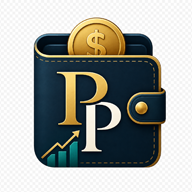
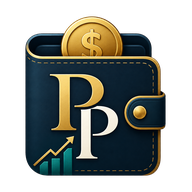
duże zmiany

Changed region(s): [[0.125, 0.0625, 0.875, 0.9375]]

diff --git a/src/app.js b/src/app.js
@@ -1,6 +1,6 @@
 const DB_NAME = 'bilans-pwa-etap1';
 const DB_VERSION = 3;
-const APP_VERSION = 21;
+const APP_VERSION = 22;
 const STORE = 'entries';
 const TAG_RULE_STORE = 'tagRules';
 const DEVICE_ID_KEY = 'bilans-pwa-device-id';
@@ -121,6 +121,7 @@ const WEEKDAYS = [
 
 const NAME_DAY_API_URLS = [
   'https://nameday.abalin.net/api/V1/today?country=pl',
+  'https://nameday.abalin.net/api/V1/today?country=pl&timezone=Europe/Warsaw',
   'https://nameday.abalin.net/api/V2/today/Europe%2FWarsaw'
 ];
 
@@ -233,9 +234,11 @@ const el = {
   todayLabel: document.querySelector('#todayLabel'),
   messageBox: document.querySelector('#messageBox'),
   installButton: document.querySelector('#installButton'),
+  installVoiceButton: document.querySelector('#installVoiceButton'),
   voiceShortcutButton: document.querySelector('#voiceShortcutButton'),
   voiceQuickPanel: document.querySelector('#voiceQuickPanel'),
   voiceCloseButton: document.querySelector('#voiceCloseButton'),
+  voiceInstallNowButton: document.querySelector('#voiceInstallNowButton'),
   voiceRecordButton: document.querySelector('#voiceRecordButton'),
   voiceStopButton: document.querySelector('#voiceStopButton'),
   voiceParseButton: document.querySelector('#voiceParseButton'),
@@ -328,6 +331,7 @@ const el = {
   filterPayment: document.querySelector('#filterPayment'),
   clearFiltersButton: document.querySelector('#clearFiltersButton'),
   clearAllButton: document.querySelector('#clearAllButton'),
+  factoryResetButton: document.querySelector('#factoryResetButton'),
   entriesTableBody: document.querySelector('#entriesTableBody'),
   mobileEntries: document.querySelector('#mobileEntries'),
   themeSelect: document.querySelector('#themeSelect'),
@@ -2763,19 +2767,53 @@ function registerServiceWorker() {
     });
 }
 
+function showInstallUnavailableMessage() {
+  showMessage('Instalacja PWA jest dostępna tylko z HTTPS/GitHub Pages i tylko wtedy, gdy przeglądarka pozwala dodać aplikację. Jeśli nie pojawi się okno instalacji, użyj menu Chrome: Dodaj do ekranu głównego.', 'error');
+}
+
+async function runInstallPrompt() {
+  if (!deferredInstallPrompt) {
+    showInstallUnavailableMessage();
+    return;
+  }
+  deferredInstallPrompt.prompt();
+  await deferredInstallPrompt.userChoice;
+  deferredInstallPrompt = null;
+}
+
+function openVoiceInstallPage() {
+  const url = new URL(window.location.href);
+  url.searchParams.set('action', 'voice');
+  url.searchParams.set('install', 'voice');
+  url.searchParams.set('v', `${APP_VERSION}-${Date.now()}`);
+  window.location.href = url.toString();
+}
+
 function setupInstallPrompt() {
   window.addEventListener('beforeinstallprompt', event => {
     event.preventDefault();
     deferredInstallPrompt = event;
-    el.installButton.classList.remove('hidden');
+    el.installButton?.classList.remove('hidden');
+    el.installVoiceButton?.classList.remove('hidden');
+    el.voiceInstallNowButton?.classList.remove('hidden');
   });
 
-  el.installButton.addEventListener('click', async () => {
-    if (!deferredInstallPrompt) return;
-    deferredInstallPrompt.prompt();
-    await deferredInstallPrompt.userChoice;
-    deferredInstallPrompt = null;
-    el.installButton.classList.add('hidden');
+  el.installButton?.addEventListener('click', event => {
+    event.preventDefault();
+    event.stopPropagation();
+    runInstallPrompt().catch(error => showMessage(error.message || 'Nie udało się uruchomić instalacji.', 'error'));
+  });
+
+  el.installVoiceButton?.addEventListener('click', event => {
+    event.preventDefault();
+    event.stopPropagation();
+    openVoiceInstallPage();
+  });
+
+  el.voiceInstallNowButton?.addEventListener('click', event => {
+    event.preventDefault();
+    event.stopPropagation();
+    runInstallPrompt().catch(error => showMessage(error.message || 'Nie udało się uruchomić instalacji mikrofonu.', 'error'));
   });
 }
 
@@ -3027,21 +3065,84 @@ function printCalendarPdf(mode) {
   showMessage('Otworzono widok PDF/drukowania. Wybierz „Zapisz jako PDF”.');
 }
 
+function deleteIndexedDatabase() {
+  return new Promise((resolve, reject) => {
+    if (!('indexedDB' in window)) {
+      resolve();
+      return;
+    }
+    try { db?.close?.(); } catch (_) {}
+    db = null;
+    const request = indexedDB.deleteDatabase(DB_NAME);
+    request.onsuccess = () => resolve();
+    request.onerror = event => reject(event.target.error || new Error('Nie udało się usunąć bazy IndexedDB.'));
+    request.onblocked = () => reject(new Error('Baza danych jest zablokowana przez inną kartę. Zamknij inne karty z programem i spróbuj ponownie.'));
+  });
+}
+
+function clearAppLocalStorage() {
+  const prefixes = ['bilans-pwa-', 'portfel-pro'];
+  for (let i = localStorage.length - 1; i >= 0; i -= 1) {
+    const key = localStorage.key(i);
+    if (!key) continue;
+    if (prefixes.some(prefix => key.startsWith(prefix))) localStorage.removeItem(key);
+  }
+  try { sessionStorage.clear(); } catch (_) {}
+}
+
+async function clearAppCachesAndWorkers() {
+  if ('caches' in window) {
+    const keys = await caches.keys();
+    await Promise.all(keys.filter(key => key.startsWith('bilans-pwa') || key.startsWith('portfel-pro')).map(key => caches.delete(key)));
+  }
+
+  if ('serviceWorker' in navigator && !isFileProtocol()) {
+    const registrations = await navigator.serviceWorker.getRegistrations();
+    await Promise.all(registrations.map(registration => registration.unregister()));
+  }
+}
+
+async function factoryResetApp() {
+  const first = window.confirm('Przywrócić ustawienia fabryczne programu? Znikną wpisy, ustawienia, tagi, połączenie Dropbox i lokalna baza tej przeglądarki.');
+  if (!first) return;
+
+  const code = window.prompt('Dla bezpieczeństwa wpisz RESET, żeby potwierdzić przywrócenie ustawień fabrycznych.');
+  if (code !== 'RESET') {
+    showMessage('Reset fabryczny anulowany. Nie wpisano RESET.', 'error');
+    return;
+  }
+
+  const shouldClearDropbox = getStorageMode() === 'dropbox' && hasDropboxConnection() && window.confirm('Wyczyścić także plik danych w Dropboxie? Jeśli wybierzesz NIE, reset dotyczy tylko tej przeglądarki.');
+
+  try {
+    if (shouldClearDropbox) {
+      const entriesToDelete = allEntries.length ? [...allEntries] : await getAllEntries();
+      if (entriesToDelete.length) rememberDeletedEntries(entriesToDelete);
+      await clearEntries();
+      await dropboxUploadPayload(makeExportPayload());
+    }
+  } catch (error) {
+    const continueReset = window.confirm(`Nie udało się wyczyścić Dropboxa: ${error.message}. Kontynuować reset lokalny?`);
+    if (!continueReset) return;
+  }
+
+  await deleteIndexedDatabase();
+  clearAppLocalStorage();
+  await clearAppCachesAndWorkers();
+
+  const reloadUrl = new URL(window.location.href);
+  reloadUrl.search = '';
+  reloadUrl.searchParams.set('v', `${APP_VERSION}-${Date.now()}`);
+  window.location.replace(reloadUrl.toString());
+}
+
 
 async function clearAppCacheAndReload() {
   const accepted = window.confirm('Wyczyścić cache tej aplikacji i uruchomić ponownie? Dane wpisów w IndexedDB nie zostaną usunięte.');
   if (!accepted) return;
 
   try {
-    if ('caches' in window) {
-      const keys = await caches.keys();
-      await Promise.all(keys.filter(key => key.startsWith('bilans-pwa') || key.startsWith('portfel-pro')).map(key => caches.delete(key)));
-    }
-
-    if ('serviceWorker' in navigator && !isFileProtocol()) {
-      const registration = await navigator.serviceWorker.getRegistration('./');
-      if (registration) await registration.unregister();
-    }
+    await clearAppCachesAndWorkers();
 
     showMessage('Cache aplikacji wyczyszczony. Uruchamiam najnowszą wersję.');
     const reloadUrl = new URL(window.location.href);
@@ -3233,7 +3334,13 @@ async function saveVoiceParsedEntries() {
 
 function setupVoiceMode() {
   if (!el.voiceQuickPanel) return;
-  if (isVoiceActionRequested()) openVoiceMode();
+  if (isVoiceActionRequested()) {
+    openVoiceMode();
+    const params = new URLSearchParams(window.location.search);
+    if (params.get('install') === 'voice') {
+      setVoiceStatus('Kliknij „Zainstaluj mikrofon”, żeby dodać osobną ikonę szybkiego dodawania.');
+    }
+  }
 }
 
 function setupTabs() {
@@ -3386,6 +3493,13 @@ function bindEvents() {
       event.preventDefault();
       event.stopPropagation();
       handleClearAll().catch(error => showMessage(error.message, 'error'));
+    });
+  }
+  if (el.factoryResetButton) {
+    el.factoryResetButton.addEventListener('click', event => {
+      event.preventDefault();
+      event.stopPropagation();
+      factoryResetApp().catch(error => showMessage(error.message || 'Nie udało się przywrócić ustawień fabrycznych.', 'error'));
     });
   }
   const handleImportChange = (event, options = {}) => {

diff --git a/index.html b/index.html
@@ -6,10 +6,15 @@
   <meta name="theme-color" content="#f6f3ea">
   <meta name="description" content="Portfel PRO — lokalny rejestr przychodów, wydatków, raportów i kalendarza.">
   <title>Portfel PRO</title>
-  <link rel="manifest" href="./manifest.webmanifest?v=21">
-  <link rel="icon" href="./icons/icon-192.png">
-  <link rel="apple-touch-icon" href="./icons/icon-192.png">
-  <link rel="stylesheet" href="./src/styles.css?v=21">
+  <script>
+    const __manifestFile = new URLSearchParams(location.search).get('action') === 'voice'
+      ? 'manifest-voice.webmanifest'
+      : 'manifest.webmanifest';
+    document.write(`<link id="appManifest" rel="manifest" href="./${__manifestFile}?v=22">`);
+  </script>
+  <link rel="icon" href="./icons/icon-192.png?v=22">
+  <link rel="apple-touch-icon" href="./icons/icon-192.png?v=22">
+  <link rel="stylesheet" href="./src/styles.css?v=22">
 </head>
 <body data-theme="classic">
   <script>
@@ -20,14 +25,15 @@
   <main class="app-shell">
     <header class="app-header">
       <div class="brand-block">
-        <div class="app-mark">P</div>
+        <img class="app-logo" src="./icons/logo-portfel-pro.png?v=22" alt="Portfel PRO">
         <div>
           <h1>Portfel PRO</h1>
           <p id="todayLabel">Lokalna aplikacja webowa</p>
         </div>
       </div>
       <div class="header-actions">
-        <button id="installButton" class="secondary hidden" type="button">Zainstaluj</button>
+        <button id="installButton" class="secondary" type="button">Zainstaluj program</button>
+        <button id="installVoiceButton" class="secondary" type="button">Zainstaluj mikrofon</button>
         <button id="cacheResetButton" class="ghost" type="button">Odśwież program</button>
         <button id="exportButton" class="secondary" type="button">Zapisz kopię danych</button>
         <button id="importButton" class="file-button" type="button">Wczytaj dane</button>
@@ -70,7 +76,10 @@
             <h2>Dodaj głosem</h2>
             <p>Powiedz wydatek albo przychód. Po rozpoznaniu sprawdź wynik i zapisz wpisy.</p>
           </div>
-          <button id="voiceCloseButton" class="ghost" type="button">Wróć</button>
+          <div class="button-row voice-top-buttons">
+            <button id="voiceInstallNowButton" class="secondary" type="button">Zainstaluj mikrofon</button>
+            <button id="voiceCloseButton" class="ghost" type="button">Wróć</button>
+          </div>
         </div>
         <button id="voiceRecordButton" class="voice-record-button" type="button" aria-pressed="false">🎙️</button>
         <strong id="voiceStatus" class="voice-status">Kliknij mikrofon i mów</strong>
@@ -218,7 +227,10 @@
             <h2>Historia wpisów</h2>
             <p id="entriesCounter">Brak wpisów.</p>
           </div>
-          <button id="clearAllButton" class="danger-outline" type="button">Usuń wszystkie dane</button>
+          <div class="button-row">
+            <button id="clearAllButton" class="danger-outline" type="button">Usuń wpisy</button>
+            <button id="factoryResetButton" class="danger-outline" type="button">↺ Ustawienia fabryczne</button>
+          </div>
         </div>
 
         <form id="filterForm" class="filter-form" autocomplete="off">
@@ -503,6 +515,6 @@
     </section>
   </main>
 
-  <script src="./src/app.js?v=21" type="module"></script>
+  <script src="./src/app.js?v=22" type="module"></script>
 </body>
 </html>

diff --git a/service-worker.js b/service-worker.js
@@ -1,14 +1,18 @@
-const CACHE_NAME = 'portfel-pro-etap21-v1';
-const APP_VERSION = '21';
+const CACHE_NAME = 'portfel-pro-etap22-v1';
+const APP_VERSION = '22';
 const APP_SHELL = [
   './',
   './index.html',
-  './index.html?v=21',
-  './manifest.webmanifest?v=21',
-  './src/styles.css?v=21',
-  './src/app.js?v=21',
+  './index.html?v=22',
+  './manifest.webmanifest?v=22',
+  './manifest-voice.webmanifest?v=22',
+  './src/styles.css?v=22',
+  './src/app.js?v=22',
   './icons/icon-192.png',
-  './icons/icon-512.png'
+  './icons/icon-512.png',
+  './icons/logo-portfel-pro.png',
+  './icons/mic-192.png',
+  './icons/mic-512.png'
 ];
 
 self.addEventListener('install', event => {
@@ -47,7 +51,7 @@ self.addEventListener('fetch', event => {
         if (cached) return cached;
 
         if (event.request.mode === 'navigate') {
-          return await caches.match('./index.html?v=21') || await caches.match('./index.html');
+          return await caches.match('./index.html?v=22') || await caches.match('./index.html');
         }
 
         return new Response('Brak połączenia i brak pliku w cache.', {

diff --git a/src/styles.css b/src/styles.css
@@ -52,6 +52,13 @@ button, .file-button { user-select: none; }
 }
 
 .brand-block { display: flex; align-items: center; gap: 12px; min-width: 260px; }
+.app-logo {
+  width: 46px;
+  height: 46px;
+  object-fit: contain;
+  display: block;
+  flex: 0 0 auto;
+}
 .app-mark {
   width: 38px;
   height: 38px;
@@ -961,4 +968,14 @@ body[data-theme="dark"] .year-day.heat-level-5 { background:#6ee7b7; color:#0615
   .startup-mode-options { grid-template-columns: 1fr; }
   .year-month-days, .mini-weekdays { gap:3px; }
   .year-day { min-height: 30px; font-size: 12px; padding: 3px; }
+}
+
+
+/* Etap 22: logo i reset fabryczny */
+.voice-top-buttons { justify-content: flex-end; }
+#factoryResetButton { white-space: nowrap; }
+@media (max-width: 640px) {
+  .brand-block { min-width: 0; }
+  .app-logo { width: 42px; height: 42px; }
+  .header-actions { width: 100%; }
 }

diff --git a/README.md b/README.md
@@ -1,4 +1,4 @@
-# Portfel PRO — Etap 21
+# Portfel PRO — Etap 22
 
 Lokalna aplikacja PWA do zapisywania przychodów, wydatków, raportów i kalendarza.
 
@@ -39,14 +39,22 @@ Tryb lokalny zapisuje dane w IndexedDB przeglądarki. Tryb Dropbox używa jedneg
 ```
 
 
-## Etap 21 - poprawka usuwania danych
+## Etap 22 - poprawka usuwania danych
 - Import JSON nie jest już realizowany przez label z ukrytym inputem, tylko przez osobne przyciski.
 - Przycisk „Usuń wszystkie dane” ma własny handler z preventDefault/stopPropagation.
 - Ujednolicono wersje cache, service workera, manifestu i plików JS/CSS do v20.
 
 
-## Etap 21
+## Etap 22
 - Zmieniono nazwę widoczną aplikacji na Portfel PRO.
 - Usunięto przycisk „Dodaj głosem” z głównego nagłówka; tryb głosowy działa jako skrót PWA `?action=voice`.
 - Pod nazwą aplikacji wyświetla się data oraz imieniny pobierane z API Abalin.
 - Dodano motywy: złoty, rubinowy, bursztynowy i diamentowy.
+
+
+## Etap 22
+- dodano reset fabryczny programu,
+- dodano osobny manifest i ikonę mikrofonu dla trybu `?action=voice`,
+- podmieniono logo programu na przezroczyste PNG,
+- dodano lokalny awaryjny wpis imienin dla 10 maja, gdy API nie odpowiada,
+- podbito cache/service worker do v22.